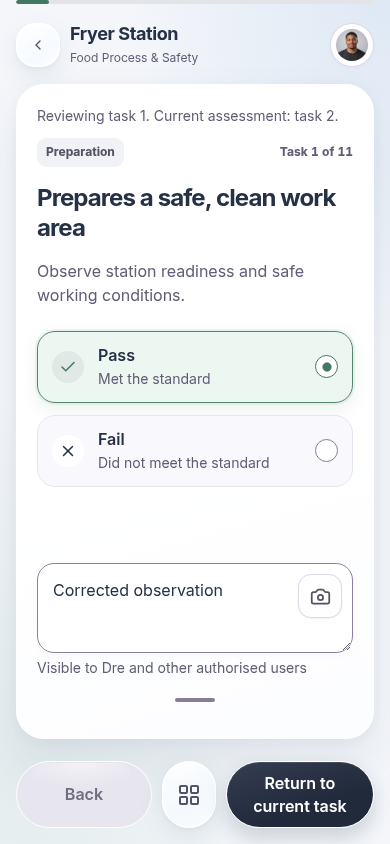
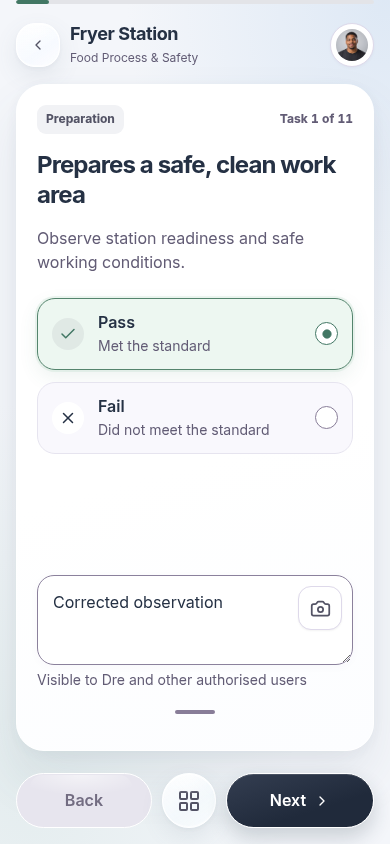
Remove review context copy and restore the standard Next button

diff --git a/src/components/assessment/spatial-primitives.tsx b/src/components/assessment/spatial-primitives.tsx
@@ -112,7 +112,6 @@ export function SpatialLiveCard({ draft, photos, direction, titleRef, onAnswer, 
   return <><SpatialSurface className="spatial-live-card" ref={cardRef} aria-label="Current task" aria-describedby="spatial-swipe-help">
     <span id="spatial-swipe-help" className="sr-only">Swipe left for next or right for previous. Back, All tasks and Next/Finish buttons are also available.</span>
     <div className="spatial-question-body" key={draft.index} data-direction={direction}>
-      {draft.index !== spatialActiveIndex(draft) && <p className="spatial-reviewing-sequence">Reviewing task {draft.index + 1}. Current assessment: task {spatialActiveIndex(draft) + 1}.</p>}
       <SpatialTaskHeading index={draft.index} titleRef={titleRef} titleId="live-question-title" completed={spatialCompleteIndices(draft, photos).length}/>
       <SpatialChoices value={draft.answers[draft.index] ?? ''} onChange={onAnswer} labelledBy="live-question-title" describedBy={reason ? validationId : undefined}/><p id={validationId} className="spatial-validation" data-visual={false} role="status" aria-live="polite" aria-atomic="true">{reason ?? 'Response recorded. You can continue.'}</p>
     </div>
@@ -124,7 +123,7 @@ export function SpatialNavigation({ index, reviewing = false, canContinue, secti
   return <nav className="spatial-navigation" aria-label="Task navigation">
     <SpatialActionButton variant="outline" disabled={index === 0} aria-label="Previous task" onClick={onBack}>Back</SpatialActionButton>
     <SpatialActionButton variant="outline" className="spatial-sections-trigger" ref={sectionsRef} aria-label="All tasks" title="All tasks" aria-haspopup="dialog" onClick={onSections}><LayoutGrid aria-hidden="true"/></SpatialActionButton>
-    <SpatialActionButton disabled={!canContinue} onClick={onNext} aria-label={reviewing ? 'Return to current task' : index === flowCriteria.length - 1 ? 'Finish checklist' : undefined}>{reviewing ? 'Return to current task' : index === flowCriteria.length - 1 ? 'Finish' : <>Next<ChevronRight size={18} aria-hidden="true"/></>}</SpatialActionButton>
+    <SpatialActionButton disabled={!canContinue} onClick={onNext} aria-label={!reviewing && index === flowCriteria.length - 1 ? 'Finish checklist' : undefined}>{!reviewing && index === flowCriteria.length - 1 ? 'Finish' : <>Next<ChevronRight size={18} aria-hidden="true"/></>}</SpatialActionButton>
   </nav>
 }
 export function SpatialSections({ draft, photos, onJump, registerPreviewBack }: { draft: FlowDraft; photos: Record<number, number>; onJump: (index: number) => void; registerPreviewBack?: (back: (() => boolean) | null) => void }) {

diff --git a/src/styles/spatial-theme.css b/src/styles/spatial-theme.css
@@ -742,11 +742,10 @@ html[data-assessment-version="5"] .spatial-observation-actions [data-slot=button
 html[data-assessment-version="5"] .spatial-review-detail-body .spatial-review-required {font-size:var(--spatial-type-secondary);color:var(--spatial-warning-ink)}
 html[data-assessment-version="5"] [data-slot=sheet-content].spatial-review-details {max-height:min(88dvh,var(--visual-height,88dvh));}
 
-/* Existing checklist sheet, with read-only upcoming content and a quiet review cue. */
+/* Existing checklist sheet, with read-only upcoming content. */
 html[data-assessment-version="5"] .spatial-checklist-preview {display:grid;gap:16px;min-width:0}
 html[data-assessment-version="5"] .spatial-checklist-preview .spatial-question-title {font-size:24px;margin:0}
 html[data-assessment-version="5"] .spatial-checklist-preview .spatial-question-description {margin:0}
 html[data-assessment-version="5"] .spatial-checklist-preview .spatial-preview-evidence-tags {display:flex;flex-wrap:wrap;gap:8px}
 html[data-assessment-version="5"] .spatial-checklist-preview .spatial-preview-evidence-tags svg {width:16px;height:16px}
-html[data-assessment-version="5"] .spatial-reviewing-sequence {margin:0 0 12px;font-size:var(--spatial-type-secondary);color:var(--spatial-muted)}
 html[data-assessment-version="5"] .spatial-navigation [data-slot=button] {white-space:normal}

diff --git a/scripts/check-checklist-overview.py b/scripts/check-checklist-overview.py
@@ -48,19 +48,19 @@ with sync_playwright() as pw:
    if width==390:s.screenshot(path=str(OUT/f'{theme}-partial-checklist.png'))
    # Reopening a completed Fail stays editable and leaves the active task at 2.
    row(s,0).click();expect(p.locator('.spatial-position')).to_have_text('Task 1 of 11')
-   expect(p.get_by_role('button',name='Return to current task',exact=True)).to_be_enabled()
+   expect(p.get_by_role('button',name='Next',exact=True)).to_be_enabled()
    p.get_by_role('radio',name='Pass',exact=True).check();p.get_by_role('textbox',name='Comment',exact=True).fill('Corrected observation')
    d=p.evaluate('JSON.parse(localStorage.getItem("'+KEY+'"))');assert d['activeIndex']==1 and d['index']==0 and d['answers']['0']=='met'
    p.reload();expect(p.get_by_role('textbox',name='Comment',exact=True)).to_have_value('Corrected observation')
    if width==390:p.screenshot(path=str(OUT/f'{theme}-review-completed.png'))
-   p.get_by_role('button',name='Return to current task',exact=True).click();expect(p.locator('.spatial-position')).to_have_text('Task 2 of 11')
+   p.get_by_role('button',name='Next',exact=True).click();expect(p.locator('.spatial-position')).to_have_text('Task 2 of 11')
    # A legacy partial section retains later observations. Preview never rewrites it.
    seed(2,{'0':'met','1':'fail','4':'met'},{'4':'Keep later data'})
    s=open_all();expect(s.locator('h3').first).to_contain_text('2 of 3 complete')
    saved=p.evaluate('localStorage.getItem("'+KEY+'")');row(s,8).click();s.get_by_role('button',name='Back to checklist',exact=True).click();assert p.evaluate('localStorage.getItem("'+KEY+'")')==saved
    # Completed legacy future item can be reviewed, never promotes active frontier.
    row(s,4).click();expect(p.get_by_role('textbox',name='Comment',exact=True)).to_have_value('Keep later data')
-   p.get_by_role('radio',name='Fail',exact=True).check();p.get_by_role('button',name='Return to current task',exact=True).click()
+   p.get_by_role('radio',name='Fail',exact=True).check();p.get_by_role('button',name='Next',exact=True).click()
    expect(p.locator('.spatial-position')).to_have_text('Task 3 of 11');assert p.evaluate('JSON.parse(localStorage.getItem("'+KEY+'")).answers[4]')=='fail'
    # Required evidence: an answered Fail is incomplete until both modalities exist.
    seed(8,{'8':'fail'})
@@ -76,9 +76,9 @@ with sync_playwright() as pw:
    s=open_all()
    for i,n in enumerate([3,5,3]):expect(s.locator('h3').nth(i)).to_contain_text(f'{n} of {n} complete')
    row(s,8).click();p.get_by_role('textbox',name='Comment',exact=True).fill('')
-   expect(p.get_by_role('button',name='Return to current task',exact=True)).to_be_disabled()
+   expect(p.get_by_role('button',name='Next',exact=True)).to_be_disabled()
    s=open_all();expect(row(s,8)).to_contain_text('Evidence needed · Review');row(s,8).click()
-   p.get_by_role('textbox',name='Comment',exact=True).fill('Corrected evidence');p.get_by_role('button',name='Return to current task',exact=True).click()
+   p.get_by_role('textbox',name='Comment',exact=True).fill('Corrected evidence');p.get_by_role('button',name='Next',exact=True).click()
    expect(p.locator('.spatial-position')).to_have_text('Task 11 of 11');assert p.evaluate('JSON.parse(localStorage.getItem("'+KEY+'")).notes[10]')=='Later task note'
    # Keyboard navigation / focus restoration / geometry.
    trigger=p.get_by_role('button',name='All tasks',exact=True);trigger.focus();p.keyboard.press('Enter');s=p.get_by_role('dialog',name='All tasks')

diff --git a/docs/rosa-checklist-overview/README.md b/docs/rosa-checklist-overview/README.md
@@ -8,7 +8,7 @@ Built on the latest React `feat/rosa-progress-status` (PR #16). No production/ma
 - Current task continues the active assessment. Complete tasks (including Fail) remain selectable for review/edit; future incomplete tasks show Upcoming · Preview only and an eye icon. They remain normal, readable buttons rather than disabled controls.
 - Reuses the actual Assessment Preview content for question, section/Critical tags, evidence requirements and Guidance. The checklist preview has no radio, textarea, camera/evidence actions, Save or Next. Only Back to checklist, Guidance and sheet dismissal are available. Closing Guidance restores its trigger; Back/Escape/X from preview returns to the list row and its scroll context. A subsequent Escape/Back closes the sheet and restores the footer trigger.
 - Removes the old V5 Review all shortcut from this sheet, which otherwise let the assessor enter the editing workflow outside the sequence. Existing Finish/Result/Sign-off and V2–V4 remain intact.
-- An optional persisted `activeIndex` separates the active sequence from a temporarily reviewed task. Existing drafts without it use their existing index; previewing writes nothing. Editing only adds navigation metadata on normal user interactions, never resets existing observations. Return to current task explicitly goes back to the active position rather than advancing from a reviewed task. The usual response/evidence guard applies before this action; missing evidence still blocks Next.
+- An optional persisted `activeIndex` separates the active sequence from a temporarily reviewed task. Existing drafts without it use their existing index; previewing writes nothing. Editing only adds navigation metadata on normal user interactions, never resets existing observations. Next returns to the preserved active position when reviewing an earlier task. The extra review message and special Return to current task label were removed at the user’s request. The usual response/evidence guard applies before this action; missing evidence still blocks Next.
 - Existing earlier gaps in legacy records remain revisitable for recovery; previously completed later items are preserved and can be reviewed without promoting the active sequence. Later answers, comments and photos are retained. After the explicit assessment completion receipt, the existing response lock remains unchanged.
 - Sequential navigation is a prototype design assumption, isolated in `spatial-checklist.ts`, not an enforced backend/scoring/operational policy.
 
@@ -16,11 +16,11 @@ Built on the latest React `feat/rosa-progress-status` (PR #16). No production/ma
 
 - `src/data/spatial-checklist.ts`: shared statuses, selection policy and next-position helpers.
 - `src/data/flow-draft.ts`: optional bounded active sequence position, backward-compatible normalization.
-- `src/components/assessment/spatial-primitives.tsx`: existing rows, inline read-only preview, focus/history handling, review cue and navigation action.
+- `src/components/assessment/spatial-primitives.tsx`: existing rows, inline read-only preview, focus/history handling and standard Next/Finish navigation.
 - `src/components/assessment/spatial-assessment-preview.tsx`: extracts shared preview content instead of duplicating question/evidence/guidance UI.
 - `src/pages/assessment-flow.tsx`: guarded selection, preserved sequence, exact copy and preview dismissal integration.
 - `src/components/design-system/rosa-preview.tsx`, `src/data/design-system/rosa-patterns.ts`: same real behavior in Explorer examples.
-- `src/styles/spatial-theme.css`: small scoped preview/review-cue additions; no semantic/brand token changes.
+- `src/styles/spatial-theme.css`: small scoped preview additions; no semantic/brand token changes.
 - `tests/spatial-checklist.test.ts`, `scripts/check-checklist-overview.py`, `scripts/check-checklist-accessibility.py`: validation.
 
 ## Visual review
